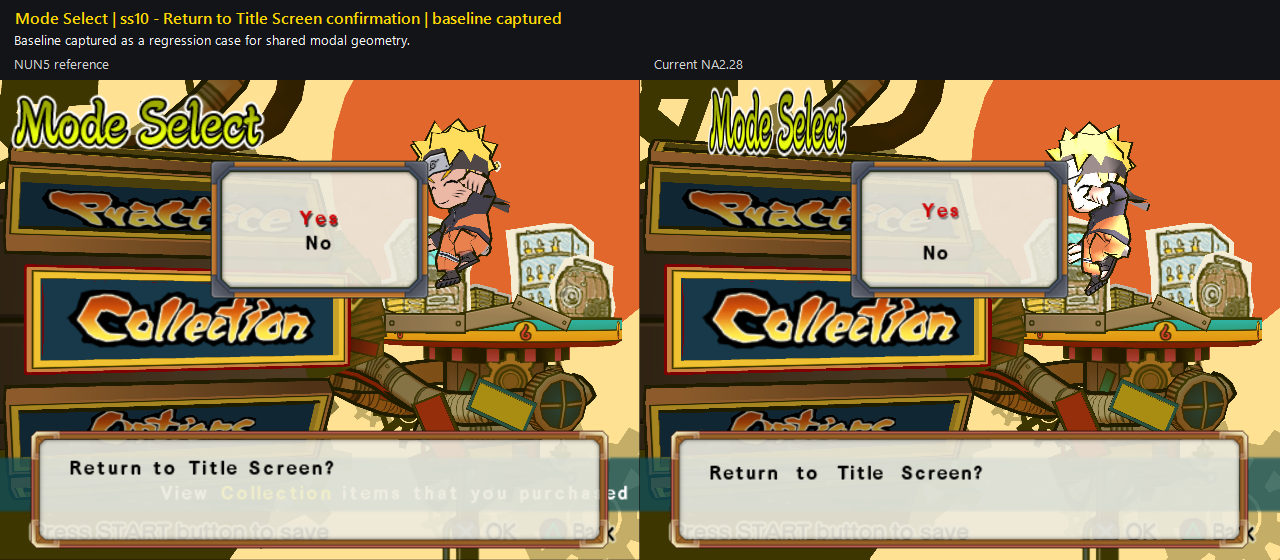
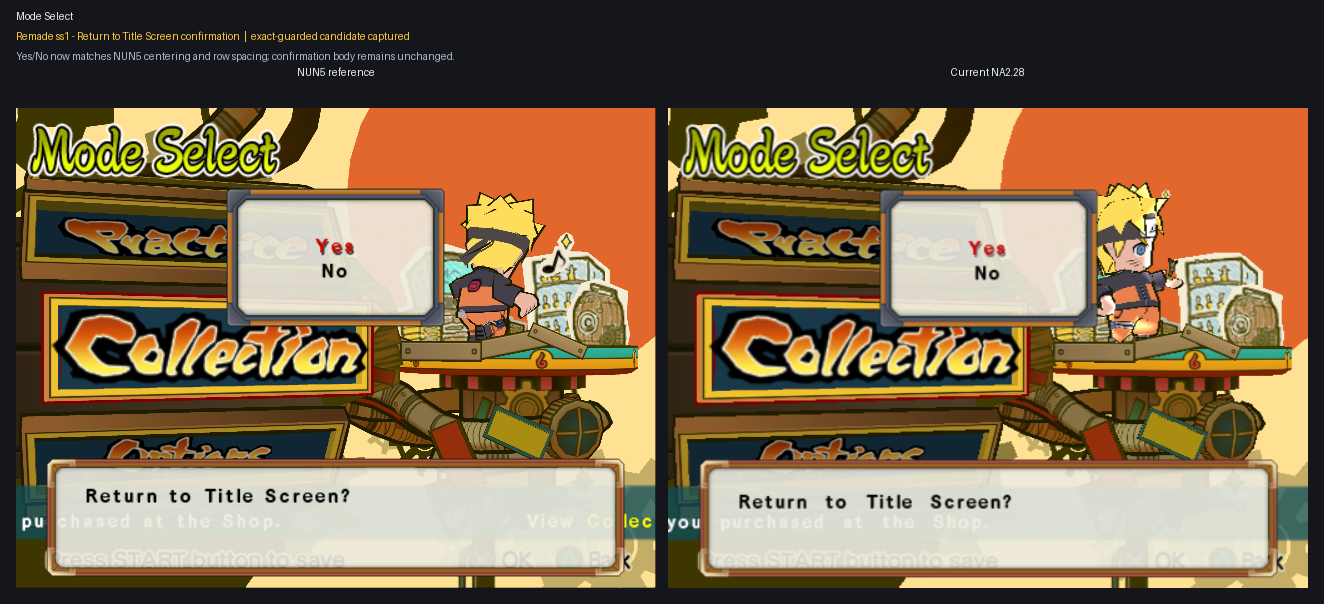
[Font] Align Mode Select confirmation choices

diff --git a/docs/workstreams/font/epics/ss2-6-layout/README.md b/docs/workstreams/font/epics/ss2-6-layout/README.md
@@ -15,22 +15,27 @@ before beginning the next case.
 - Inputs:
   `work/Font/inputs/sstates/epics/ss2-6/` and
   `work/Font/inputs/sstates/batches/2026-07-27-ss1-10/`, plus
-  `work/Font/inputs/sstates/batches/2026-07-27-additional-ss1/`.
+  `work/Font/inputs/sstates/batches/2026-07-27-additional-ss1/` and
+  `work/Font/inputs/sstates/batches/2026-07-29-priority4-ss1/`.
 - Extracted source screenshots:
   `work/Font/inputs/screenshots/epics/ss2-6/` and
   `work/Font/inputs/screenshots/batches/2026-07-27-ss1-10/`, plus
-  `work/Font/inputs/screenshots/batches/2026-07-27-additional-ss1/`.
+  `work/Font/inputs/screenshots/batches/2026-07-27-additional-ss1/` and
+  `work/Font/inputs/screenshots/batches/2026-07-29-priority4-ss1/`.
 - Provenance:
   `work/Font/inputs/sstates/epics/ss2-6/provenance.tsv` and
   `work/Font/inputs/sstates/batches/2026-07-27-ss1-10/provenance.tsv`, plus
-  `work/Font/inputs/sstates/batches/2026-07-27-additional-ss1/provenance.tsv`.
+  `work/Font/inputs/sstates/batches/2026-07-27-additional-ss1/provenance.tsv`
+  and
+  `work/Font/inputs/sstates/batches/2026-07-29-priority4-ss1/provenance.tsv`.
 - Protected `@pcsx2_user` sources remain untouched.
 - Status: the remade ss2 and ss3 pair records the same Pause Controls modal in
   normal and selected states. Both are user-verified and removed from the
   remaining report. The shared quit-confirmation and ss1 Special Controls cases
   are also user-verified and removed. The original batch retains two cases and
   the new batch contributes ten baseline cases. The additional Command Chart
-  ss1 raises the remaining total to thirteen cases.
+  ss1 raises the remaining total to thirteen cases. The 2026-07-29 remade ss1
+  supersedes the old ss10 Mode Select evidence without changing that total.
 - Existing accepted Font and resident-renderer behavior remains the regression
   baseline. The previously retained Command Chart ss2 image was superseded by
   the remade Pause Controls ss2 state and is no longer an epic input.
@@ -108,12 +113,16 @@ before beginning the next case.
 
 ## Mode Select
 
-### Priority 4 — New batch ss10: Return to Title Screen confirmation
+### Priority 4 — Remade ss1: Return to Title Screen confirmation
 
-- State: baseline captured; not implemented.
-- Review target: regression coverage for the shared modal geometry.
+- State: exact-guarded candidate captured; implementation is ready for the
+  user's normal-build regression. This pair supersedes the prior new-batch
+  ss10 evidence.
+- Result: the body remains unchanged; the existing C-owned Yes/No mapper now
+  centers both labels and reproduces NUN5 row spacing through one isolated
+  Mode Select caller hook.
 
-![Priority 4 Mode Select confirmation baseline](4-mode-select-confirmation.png)
+![Priority 4 Mode Select confirmation candidate](4-mode-select-confirmation.png)
 
 ## Current priorities
 
@@ -129,8 +138,10 @@ Collection and Mode Select grids so each remains under its semantic section.
    family once, then validate both states.
 3. **New ss5 and ss9 — Character Select modal text.** Address the overflowing
    list entry and confirmation body while keeping new ss6 as regression proof.
-4. **New ss1 and ss10 — Shared confirmation regression.** Confirm whether the
-   existing modal adapters already provide parity before adding any caller.
+4. **New-batch ss1 plus remade ss1 — Shared confirmation regression.** The
+   remade Mode Select ss1 candidate reuses the existing modal adapter and is
+   ready for user regression. Keep the Collection baseline as the unchanged
+   companion check before accepting this subtask.
 5. **New ss2–ss3 — Practice Settings review.** Separate translation-owned
    content differences from remaining Font geometry before patching.
 6. **Original ss5 — Character model move list.** Add bounded wrapping and

diff --git a/docs/knowledge/localization/font/README.md b/docs/knowledge/localization/font/README.md
@@ -932,6 +932,28 @@ Battle/Practice and Game Mode/Character Select combinations on 2026-07-27.
 The shared quit-confirmation layer is therefore **runtime-proven** with high
 confidence.
 
+### Mode Select Return to Title confirmation caller
+
+The 2026-07-29 remade ss1 pair isolates a second consumer of the accepted
+C-owned Yes/No mapper. NA2 `FUN_00385C00` draws two list objects through
+adjacent calls to `FUN_00383600`: object `+0xD0` at boot-ELF file
+`0x285E80`, then object `+0xCC` at file `0x285E98` / runtime `0x00385D98`.
+The confirmation state in `FUN_00382EF0` operates only object `+0xCC`, so the
+second call is the bounded live-widget hook; selecting both would include an
+unrelated resident object without evidence. Its clean eight-byte guard is
+`800D0E0C00000000`.
+
+The body already matches closely. Current instead draws Yes/No roughly
+19–23 screenshot pixels left of NUN5 and uses a wider row interval. An
+exact-guarded task-owned conversion redirected only the second list call to
+`localization.font.v2.quit_choices_scope`. The hidden capture reused the
+existing C mapping—Yes `(64.5,31.5)`, No `(68.5,49)`—and visually matched
+NUN5 while leaving the body unchanged. No new formula or assembly payload is
+needed. Confidence is **high** for the caller identity, guard, isolation, and
+candidate result; the layer is **approved for test** pending the user's
+normal-build regression of Mode Select and the retained Collection
+confirmation.
+
 ### Practice explanation mixed-text wrapping
 
 Bounded NA2/NUN5 BTL comparison identifies the Practice explanation loop as a

diff --git a/na2_patcher/features/localization/README.md b/na2_patcher/features/localization/README.md
@@ -1864,6 +1864,18 @@ content and corrected it in `f4f12f6`. The user verified the combined
 fresh-build result across all four Battle/Practice and Game Mode/Character
 Select combinations on 2026-07-27, so the layer is `runtime_proven`.
 
+The separate `font_layout_mode_select_confirmation` caller layer reuses the
+same C-owned scope and coordinate map without adding another renderer formula.
+Mode Select `FUN_00385C00` draws two resident list objects through adjacent
+native calls, but its confirmation state operates only object `+0xCC`. The
+layer therefore redirects only the second call at boot-ELF file `0x285E98`
+(runtime `0x00385D98`, clean guard `800D0E0C00000000`) to
+`localization.font.v2.quit_choices_scope`; the first call remains native. An
+exact-guarded converted remade ss1 state centers Yes/No with NUN5 row spacing
+while leaving the already-matching body unchanged. The layer remains
+`approved_for_test` until the user regresses Mode Select and the retained
+Collection confirmation on a normal build.
+
 The separate `font_layout_special_controls_body` layer completes the explanatory
 block on the same ss1 Special Controls screen. Exact telemetry identifies only
 the native UI-body call at BTL file `0x1C3D38` (runtime `0x00877C38`, clean
